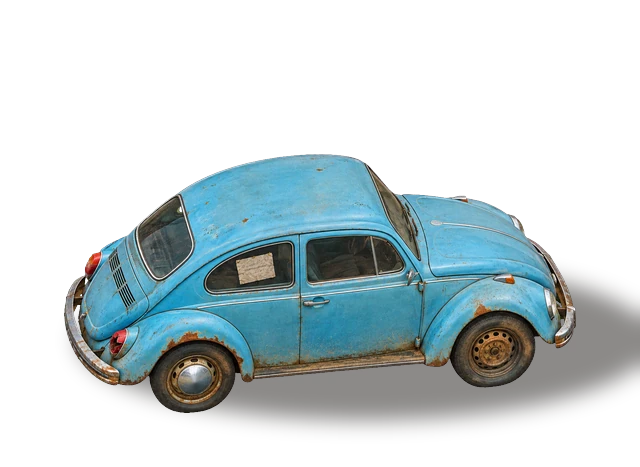
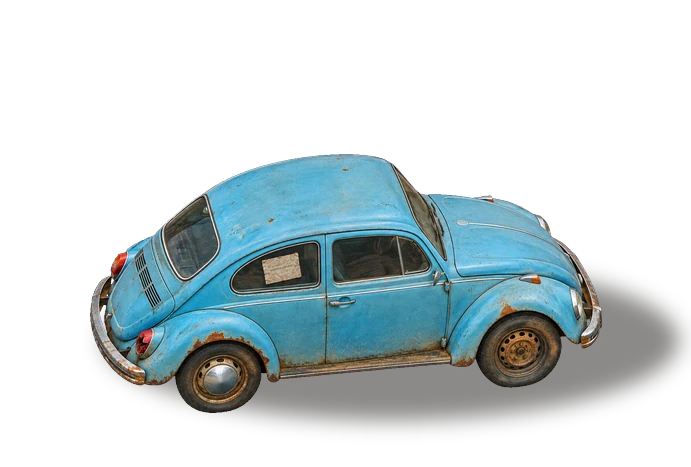
Brasília e Uno com escada gerados no Figma, e o fusca em 8 direções
Recorte comum para os carros do Figma: verde puro vira transparente (até
entre os degraus da escada), verde escurecido atrás do vidro vira vidro
escuro, a carroceria é medida sem a escada e tudo sai na mesma escala.
Fusca, Brasília e Uno são sorteados nas vagas e metade aparece espelhada.
O fusca em 8 direções (recortado da folha 4x4) fica em
docs/arte/cenario_orla/fusca_360, com o giro animado.

Claude-Session: https://claude.ai/code/session_01V3nfXgj3At2PPcBsXwjYXU

diff --git a/prototype/src/arte_cenario.js b/prototype/src/arte_cenario.js
@@ -7,8 +7,9 @@ export const ART_K = Math.sin((55 * Math.PI) / 180);
 
 // w, d, h: largura, fundo e altura (m). padX: folga dos lados; top: quanto o quadro sobe acima da origem;
 // bot: quanto desce abaixo dela (sombra). files: variações (arquivo <tipo>_<variação>.webp).
+// espelha: metade dos objetos aparece virada para o outro lado (carro estacionado nos dois sentidos).
 export const ART = {
-  carro: { w: 4.0, d: 1.8, h: 1.45, padX: 0.5, top: 3.2, bot: 0.45, files: ['fusca'] },
+  carro: { w: 4.0, d: 1.8, h: 1.45, padX: 0.7, top: 3.2, bot: 0.45, files: ['fusca', 'brasilia', 'uno'], espelha: true },
   onibus: { w: 8.8, d: 2.5, h: 3.0, padX: 0.5, top: 5.4, bot: 0.5, files: [] },
   banca: { w: 2.4, d: 1.6, h: 2.3, padX: 0.5, top: 3.9, bot: 0.4, files: [] },
   milho: { w: 1.4, d: 0.8, h: 1.1, padX: 0.8, top: 2.9, bot: 0.35, files: [] },

diff --git a/prototype/src/render_cenario.js b/prototype/src/render_cenario.js
@@ -70,9 +70,16 @@ export function drawCenario(ctx, p, cam, ppu, dpr, t, alpha = 1, playerPx = 0) {
     const im = f && images[artKey(p.kind, f)];
     if (im) {
       const k = ((p.x1 - p.x0) / A.w) * (ppu / ART_S);
+      const flip = A.espelha && Math.floor(p.v * 97) % 2 === 1;
+      ctx.save();
       if (alpha < 1) ctx.globalAlpha = alpha;
+      if (flip) {
+        // espelhado em torno do meio do objeto (a moldura tem a mesma folga dos dois lados)
+        ctx.translate(2 * pt.x + (p.x1 - p.x0) * ppu, 0);
+        ctx.scale(-1, 1);
+      }
       ctx.drawImage(im, pt.x - A.padX * ART_S * k, pt.y - A.top * ART_S * k, im.width * k, im.height * k);
-      if (alpha < 1) ctx.globalAlpha = 1;
+      ctx.restore();
       return;
     }
   }

diff --git a/prototype/src/sprites.js b/prototype/src/sprites.js
@@ -46,6 +46,8 @@ export const IMAGES = {
   cone: 'assets/cenario/cone.png',
   // cenário com arte gerada (Figma, IA de imagem) e recortada; medidas em arte_cenario.js
   cen_carro_fusca: 'assets/cenario/orla/carro_fusca.webp',
+  cen_carro_brasilia: 'assets/cenario/orla/carro_brasilia.webp',
+  cen_carro_uno: 'assets/cenario/orla/carro_uno.webp', // o Uno com escada no teto
   chao: 'assets/chao/pedra_portuguesa_ondas.jpg',
   w_capacete: 'assets/hud/w_capacete.png',
   w_boleto: 'assets/hud/w_boleto.png',

diff --git a/docs/DECISOES.md b/docs/DECISOES.md
@@ -32,7 +32,7 @@ Continua o registro do pacote de conceito (`docs/concept-v0.1/06_Decisoes_e_Ques
 | D26 | 06/11/2026 | Habilidade exclusiva por mapa | Cada trecho oferece uma carta que só aparece nele: Isopor de Picolé na Orla (onda gelada que deixa a horda lenta) e Mototáxi Amigo no Morro (a moto sobe a viela atropelando). Quem pega leva para os próximos trechos | Feito no protótipo |
 | D27 | 06/11/2026 | Jogo de zumbi sanguinário | Pedido do autor: o jogo é de zumbi e precisa ser sanguinário. Com o ajuste "Respingos e manchas" ligado (padrão), todo inimigo, inclusive a horda, explode em sangue e pedaços que voam, quicam e deixam manchas (`GORE` em config.js). Desligado, a horda volta a acordar (MECH-001), para versões com classificação menor. Substitui a D12 no modo padrão. Sangue e desmembramento sobem a classificação da loja | Decidido pelo autor |
 | D28 | 06/11/2026 | Cenário vivo | Pedido do autor: mapas mais vivos e com obstáculos no meio do caminho. Orla com carros e ônibus parados nas ruas, botecos, açaí e pastelaria no meio do calçadão, carrinhos, bancos, lixeiras, orelhões, postes, placas, muros e tapumes pichados, cartazes de candidatos inventados, santinhos e sujeira no chão, bandeira do Brasil e bandeirinhas, garotas de programa paradas na esquina; Morro com motos, entulho, gatos de luz, caixas d'água, sinuca, varal, camburão com policiais armados e barricada. Garotas e policiais são figuras de ambiente: não lutam e não são alvo. A rota nunca fecha (teste). Detalhes em `design/MAPAS_CARACTERIZACAO.md`. Riscos registrados: figura sexualizada sobe a classificação e restringe redes de anúncio (por isso sem nudez e sem ato); polícia sem brasão nem sigla real; a bandeira aparece inteira, sem mudar forma ou cores. Bot com cenário: 30% de vitórias (antes 47%) | Feito no protótipo; arte final pendente |
-| D29 | 07/11/2026 | Arte do cenário | Os objetos desenhados em código ficaram amadores (avaliação do autor) e saíram do jogo; no lugar ficam blocos simples até a arte chegar. A arte do cenário passa a ser gerada por IA de imagem no Figma pessoal do autor e recortada para o jogo. Teste: um fusca azul velho, gerado sem emblema (o da calota foi apagado no recorte), a pedido do autor. O formato do fusca é reconhecível como o de um modelo real: revisar antes da loja, como em D17 | Teste aprovado para seguir pedido a pedido; cada imagem gasta créditos de IA do Figma |
+| D29 | 07/11/2026 | Arte do cenário | Os objetos desenhados em código ficaram amadores (avaliação do autor) e saíram do jogo; no lugar ficam blocos simples até a arte chegar. A arte do cenário passa a ser gerada por IA de imagem no Figma pessoal do autor e recortada para o jogo. Teste: um fusca azul velho, gerado sem emblema (o da calota foi apagado no recorte), a pedido do autor; depois o fusca em 8 direções, uma Brasília amarela e um Uno branco com escada no teto, todos sem emblema e sorteados nas vagas, virados para os dois lados. Os formatos são reconhecíveis como os de modelos reais: revisar antes da loja, como em D17 | Teste aprovado para seguir pedido a pedido; cada imagem gasta créditos de IA do Figma |
 
 ## Pendentes
 

diff --git a/docs/arte/GUIA_DE_PRODUCAO_DE_ARTE.md b/docs/arte/GUIA_DE_PRODUCAO_DE_ARTE.md
@@ -381,7 +381,7 @@ Objeto de cenário em vista 3/4 de cima (~50°), base do objeto embaixo e centra
 
 #### Cenário vivo (pedido de 06/11/2026) · Leva 2
 
-**Teste com o Figma (07/11/2026):** os objetos desenhados em código ficaram amadores e saíram do jogo; no lugar deles há blocos simples, só para marcar o lugar e o tamanho. O primeiro objeto gerado por IA de imagem no Figma pessoal do autor (modelo GPT Image) é o fusca azul de `docs/arte/cenario_orla/fusca_figma.png`, já no jogo em todas as vagas de carro. Como ele foi feito: fundo verde chapado (#00FF00), câmera 3/4 de cima com o carro de lado, apontando para a direita, luz de fim de tarde vinda da esquerda e nenhum texto, logotipo ou emblema. Depois o recorte tira o fundo e a borda verde, apaga emblemas que escaparem e enquadra pelas medidas de `prototype/src/arte_cenario.js` (128 px por metro, origem no canto da frente, no chão).
+**Teste com o Figma (07/11/2026):** os objetos desenhados em código ficaram amadores e saíram do jogo; no lugar deles há blocos simples, só para marcar o lugar e o tamanho. O primeiro objeto gerado por IA de imagem no Figma pessoal do autor (modelo GPT Image) é o fusca azul de `docs/arte/cenario_orla/fusca_figma.png`, no jogo junto com a Brasília (`brasilia_figma.png`) e o Uno com escada no teto (`uno_escada_figma.png`). O fusca também está em 8 direções em `docs/arte/cenario_orla/fusca_360/`. Como ele foi feito: fundo verde chapado (#00FF00), câmera 3/4 de cima com o carro de lado, apontando para a direita, luz de fim de tarde vinda da esquerda e nenhum texto, logotipo ou emblema. Depois o recorte tira o fundo e a borda verde, apaga emblemas que escaparem e enquadra pelas medidas de `prototype/src/arte_cenario.js` (128 px por metro, origem no canto da frente, no chão).
 
 Já está no jogo desenhado em código; estas imagens substituem o provisório. Mesmo prompt base acima. Onde há texto (letreiro, placa, cartaz), peça **sem texto**: o jogo escreve por cima.
 
